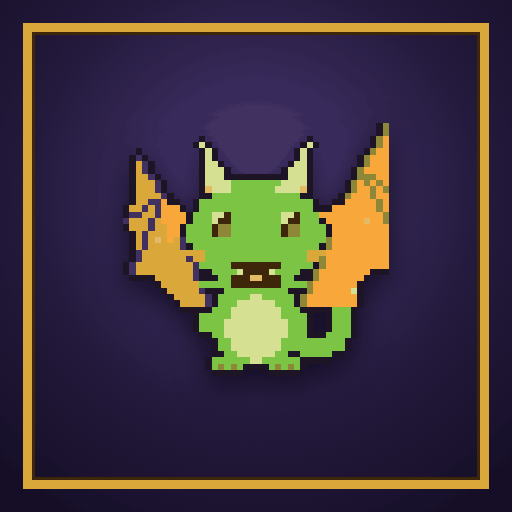
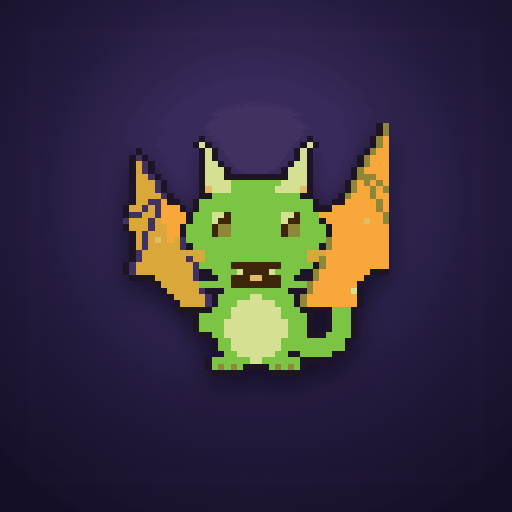
Add files via upload

Changed region(s): [[0.0312, 0.0312, 0.9688, 0.9688]]

diff --git a/sw.js b/sw.js
@@ -1,10 +1,12 @@
 /* Derivarium · service worker: deja la app instalada disponible sin conexión. */
-const CACHE = 'derivarium-v6';
-const SHELL = ['.', './manifest.json', './icon-192.png', './icon-512.png', './icon-512-maskable.png', './icon-180.png', './apple-touch-icon.png'];
+const CACHE = 'derivarium-v7';
+const SHELL = ['./', './manifest.webmanifest?v=7', './icon-192.png?v=7', './icon-512.png?v=7', './icon-512-maskable.png?v=7',
+  './favicon.ico?v=7', './favicon-32.png?v=7', './favicon-48.png?v=7', './apple-touch-icon.png?v=7', './apple-touch-icon-152.png?v=7', './apple-touch-icon-167.png?v=7'];
 
 self.addEventListener('install', e => {
   self.skipWaiting();
-  e.waitUntil(caches.open(CACHE).then(c => c.addAll(SHELL).catch(() => {})));
+  /* Cada archivo por separado: si uno falla, los demás igual se guardan */
+  e.waitUntil(caches.open(CACHE).then(c => Promise.all(SHELL.map(u => c.add(u).catch(() => {})))));
 });
 
 self.addEventListener('activate', e => {
@@ -15,14 +17,25 @@ self.addEventListener('activate', e => {
   );
 });
 
-/* Mismo origen: sirve de caché al instante y refresca en segundo plano (stale-while-revalidate).
-   Otros orígenes (fuentes, MathJax): deja pasar la petición tal cual, sin intervenir. */
+/* La página (navegación): primero la red, así una versión nueva se ve al abrir; sin conexión, usa la copia guardada.
+   El resto del mismo origen (íconos, manifiesto): sirve la copia al instante y la refresca en segundo plano.
+   Otros orígenes (fuentes, MathJax): no se intervienen. */
 self.addEventListener('fetch', e => {
   const req = e.request;
   if (req.method !== 'GET') return;
   let url;
   try { url = new URL(req.url); } catch (err) { return; }
   if (url.origin !== self.location.origin) return;
+
+  if (req.mode === 'navigate') {
+    e.respondWith(
+      fetch(req).then(res => {
+        if (res && res.status === 200) { const copy = res.clone(); caches.open(CACHE).then(c => c.put('./', copy)).catch(() => {}); }
+        return res;
+      }).catch(() => caches.match('./').then(r => r || caches.match(req)))
+    );
+    return;
+  }
 
   e.respondWith(
     caches.match(req).then(cached => {

diff --git a/index.html b/index.html
@@ -1,10 +1,16 @@
-<!doctype html><html lang="es"><head><meta charset="utf-8"><meta name="viewport" content="width=device-width,initial-scale=1"><title>Derivarium</title><style>html{color-scheme:dark}body{margin:0}</style><link rel="manifest" href="manifest.json">
+<!doctype html><html lang="es"><head><meta charset="utf-8"><meta name="viewport" content="width=device-width,initial-scale=1"><title>Derivarium</title><style>html{color-scheme:dark}body{margin:0}</style><link rel="manifest" href="manifest.webmanifest?v=7">
 <meta name="theme-color" content="#0b0912">
-<link rel="icon" type="image/png" sizes="192x192" href="icon-192.png">
-<link rel="apple-touch-icon" href="apple-touch-icon.png">
-<link rel="apple-touch-icon" sizes="180x180" href="apple-touch-icon.png">
+<link rel="icon" href="favicon.ico?v=7" sizes="any">
+<link rel="icon" type="image/png" sizes="32x32" href="favicon-32.png?v=7">
+<link rel="icon" type="image/png" sizes="48x48" href="favicon-48.png?v=7">
+<link rel="icon" type="image/png" sizes="192x192" href="icon-192.png?v=7">
+<link rel="apple-touch-icon" href="apple-touch-icon.png?v=7">
+<link rel="apple-touch-icon" sizes="152x152" href="apple-touch-icon-152.png?v=7">
+<link rel="apple-touch-icon" sizes="167x167" href="apple-touch-icon-167.png?v=7">
+<link rel="apple-touch-icon" sizes="180x180" href="apple-touch-icon.png?v=7">
 <meta name="apple-mobile-web-app-capable" content="yes">
 <meta name="mobile-web-app-capable" content="yes">
+<meta name="application-name" content="Derivarium">
 <meta name="apple-mobile-web-app-status-bar-style" content="black-translucent">
 <meta name="apple-mobile-web-app-title" content="Derivarium">
 </head><body>

diff --git a/README.md b/README.md
@@ -1,50 +1,43 @@
 # Derivarium — publicar en GitHub Pages
 
-Esta carpeta ya es un sitio estático completo (juego + app instalable). Para
-ponerlo en línea con un URL propio:
+Esta carpeta es un sitio estático completo (juego + app instalable).
 
-1. Entra a [github.com](https://github.com) y crea un repositorio nuevo (por
-   ejemplo `derivarium`). Puede ser público o privado; si es privado,
-   GitHub Pages solo está disponible en algunos planes.
-2. Sube los archivos de esta carpeta a la raíz del repositorio:
-   - arrástralos a la página del repositorio con "Add file → Upload files",
-     o
-   - por línea de comandos:
-     ```
-     git init
-     git add .
-     git commit -m "Derivarium"
-     git branch -M main
-     git remote add origin https://github.com/TU-USUARIO/derivarium.git
-     git push -u origin main
-     ```
-3. En el repositorio, ve a **Settings → Pages**. En "Build and deployment",
-   elige **Deploy from a branch**, rama `main` y carpeta `/ (root)`. Guarda.
-4. Espera uno o dos minutos. GitHub te mostrará el URL, con esta forma:
-   `https://TU-USUARIO.github.io/derivarium/`
+## Qué se corrigió en esta versión (v7) para que se vea el ícono
 
-Ese URL ya sirve `index.html`, `manifest.json`, `sw.js` y los íconos juntos,
-así que la opción "Instalar" / "Añadir a pantalla de inicio" funciona igual
-que en el enlace de Claude, y además el juego queda accesible sin depender
-de esta conversación.
+- **Ícono de Android sin marco**: el ícono «maskable» tenía un marco dorado que Android recorta al ponerlo en círculo o «gota»; ahora es solo el fondo con Difo al centro.
+- **Archivos nuevos con otro nombre**: el manifiesto pasó de `manifest.json` a `manifest.webmanifest` y todos los íconos se piden con `?v=7`. Así el teléfono y GitHub Pages no reutilizan copias viejas (sin ícono) guardadas antes.
+- **Favicon** (`favicon.ico`, 32 y 48 px) para la pestaña del navegador y íconos de iPad (152 y 167 px) además del de iPhone (180 px).
+- **El juego se actualiza al abrirlo**: antes el service worker mostraba primero la copia guardada y la versión nueva aparecía hasta la segunda vez que abrías la app; ahora la página va primero a la red y usa la copia solo sin conexión.
 
-## Actualizarlo más adelante
+## Subirlo a GitHub (paso a paso)
 
-Si vuelves a pedirme cambios en Derivarium, te doy un `.zip` nuevo con la
-misma estructura: reemplaza los archivos en el repositorio (o vuelve a
-subirlos) y haz commit; GitHub Pages se actualiza solo en un minuto.
+1. Entra a [github.com](https://github.com) y abre tu repositorio de Derivarium (o crea uno nuevo, por ejemplo `derivarium`).
+2. **Borra `manifest.json`** del repositorio (ya no se usa; el nuevo es `manifest.webmanifest`). Es un archivo suelto: ábrelo → botón «…» → *Delete file*.
+3. Sube **todos** los archivos de esta carpeta a la raíz con «Add file → Upload files» (reemplaza los que tengan el mismo nombre) y confirma con *Commit changes*.
+4. En **Settings → Pages**: *Deploy from a branch*, rama `main`, carpeta `/ (root)`. Espera uno o dos minutos.
+5. Tu enlace será `https://TU-USUARIO.github.io/NOMBRE-DEL-REPOSITORIO/`.
+
+## Para que aparezca el ícono en el teléfono (importante)
+
+El teléfono guarda el ícono **en el momento en que se crea el acceso directo**; si el que tienes en la pantalla de inicio se creó antes, no se actualiza solo.
+
+**Android (Chrome)**
+1. Mantén pulsado el acceso directo viejo → *Desinstalar* / *Eliminar*.
+2. En Chrome abre el enlace de GitHub Pages y recárgalo dos veces (la segunda carga ya usa la versión v7).
+3. Menú ⋮ → **Instalar aplicación** (o *Añadir a la pantalla de inicio*). Debe aparecer Difo.
+
+**iPhone / iPad (Safari, no Chrome)**
+1. Borra el acceso directo viejo de la pantalla de inicio.
+2. Cierra Safari por completo (desliza hacia arriba) y vuelve a abrir el enlace.
+3. Compartir → **Añadir a pantalla de inicio**. iOS toma `apple-touch-icon.png` en ese momento.
+
+Si sigues viendo una letra o una captura de pantalla en lugar del ícono, casi siempre es porque el sitio todavía no terminó de publicarse en GitHub Pages o porque no se subió algún archivo `.png`: abre `https://TU-USUARIO.github.io/NOMBRE/apple-touch-icon.png` en el navegador; si ves a Difo, el archivo está bien publicado.
 
 ## Archivos incluidos
 
-- `index.html` — el juego completo (un solo archivo, sin dependencias locales).
-- `manifest.json` — nombre, ícono y colores de la app instalable.
-- `sw.js` — service worker: cachea el juego para que abra sin conexión.
-- `apple-touch-icon.png` (180×180, el que usa el iPhone), `icon-192.png`, `icon-512.png`, `icon-512-maskable.png`, `icon-180.png` — íconos de la app.
-
-## Novedades (versión 8 bits)
-
-El héroe, Difo y las princesas ahora son pixel art 8 bits generado por código (no hay imágenes sueltas). El ícono de la app es el dragoncito Difo. Si ya tenías la app instalada, ciérrala y ábrela una vez con internet para que se actualice el caché (`derivarium-v6`).
-
-## Ícono en iPhone (importante)
-
-Sube **todos** los archivos, incluido `apple-touch-icon.png`, a la raíz del repositorio y reemplaza el `index.html` anterior. Luego en el iPhone: borra el acceso directo viejo de la pantalla de inicio, cierra Safari por completo, abre el sitio de nuevo y usa Compartir → Añadir a pantalla de inicio. iOS guarda el ícono la primera vez que se añade, por eso hay que volver a crearlo.
+- `index.html` — el juego completo (un solo archivo).
+- `manifest.webmanifest` — nombre, colores e íconos de la app instalable.
+- `sw.js` — service worker (funciona sin conexión; caché `derivarium-v7`).
+- `icon-192.png`, `icon-512.png`, `icon-512-maskable.png` — íconos de Android/Chrome.
+- `apple-touch-icon.png` (180), `apple-touch-icon-167.png`, `apple-touch-icon-152.png`, `icon-180.png` — íconos de iPhone y iPad.
+- `favicon.ico`, `favicon-32.png`, `favicon-48.png` — ícono de la pestaña.
